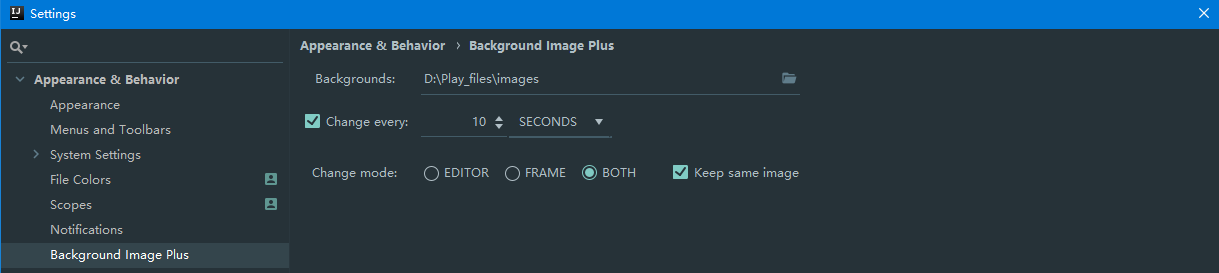
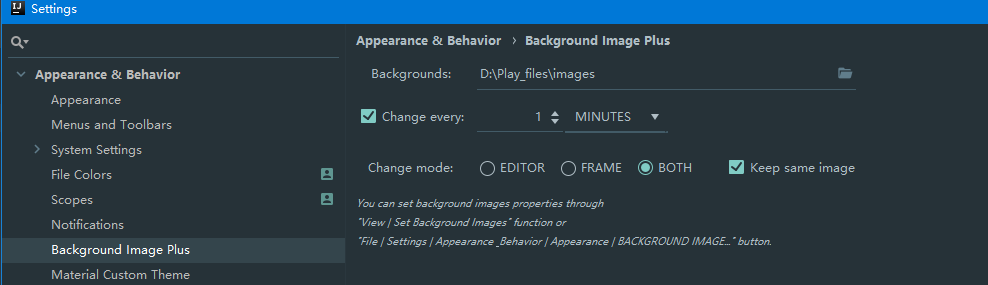
change the random mode and support reshuffle

diff --git a/src/com/notime/intellijPlugin/backgroundImagePlus/ImagesHandlerSingleton.java b/src/com/notime/intellijPlugin/backgroundImagePlus/ImagesHandlerSingleton.java
@@ -1,0 +1,77 @@
+package com.notime.intellijPlugin.backgroundImagePlus;
+
+import org.apache.commons.collections.CollectionUtils;
+
+import javax.activation.MimetypesFileTypeMap;
+import java.io.File;
+import java.util.ArrayList;
+import java.util.Collections;
+import java.util.List;
+
+/**
+ * Author: He Lili
+ * Date:   2018/10/22
+ */
+public enum ImagesHandlerSingleton {
+    
+    /**
+     * 实例
+     */
+    instance;
+    
+    private MimetypesFileTypeMap typeMap = new MimetypesFileTypeMap();
+    
+    private List<String> randomImageList = null;
+    
+    private String lastFolder = null;
+    
+    public String getRandomImage(String folder) {
+        // 文件夹改动或者完成了一次循环
+        if (!folder.equals(lastFolder) || CollectionUtils.isEmpty(randomImageList)) {
+            randomImageList = this.getRandomImageList(folder);
+        }
+        lastFolder = folder;
+        while (CollectionUtils.isNotEmpty(randomImageList) && !isImage(new File(randomImageList.get(0)))) {
+            randomImageList.remove(0);
+        }
+        return CollectionUtils.isEmpty(randomImageList) ? null : randomImageList.remove(0);
+    }
+    
+    public void resetRandomImageList() {
+        randomImageList = lastFolder == null ? null : this.getRandomImageList(lastFolder);
+    }
+    
+    private List<String> getRandomImageList(String folder) {
+        if (folder.isEmpty()) {
+            return null;
+        }
+        List<String> images = new ArrayList<>();
+        collectImages(images, folder);
+        Collections.shuffle(images);
+        return images;
+    }
+    
+    private void collectImages(List<String> images, String folder) {
+        File root = new File(folder);
+        if (root.exists()) {
+            File[] list = root.listFiles();
+            if (list != null) {
+                for (File f : list) {
+                    if (f.isDirectory()) {
+                        collectImages(images, f.getAbsolutePath());
+                    } else {
+                        if (isImage(f)) {
+                            images.add(f.getAbsolutePath());
+                        }
+                    }
+                }
+            }
+        }
+    }
+    
+    private boolean isImage(File file) {
+        String[] parts = typeMap.getContentType(file).split("/");
+        return parts.length != 0 && "image".equals(parts[0]);
+    }
+    
+}

diff --git a/src/com/notime/intellijPlugin/backgroundImagePlus/RandomBackgroundTask.java b/src/com/notime/intellijPlugin/backgroundImagePlus/RandomBackgroundTask.java
@@ -24,9 +24,6 @@ public class RandomBackgroundTask implements Runnable {
         String folder = prop.getValue(Settings.FOLDER);
         String[] radioButton = prop.getValue(Settings.RADIO_BUTTON).split(",");
         boolean keepSameImage = prop.getBoolean(Settings.KEEP_SAME_IMAGE);
-        if (keepSameImage && radioButton.length == 2) {
-        
-        }
         String image = null;
         for (int i = 0; i < radioButton.length; i++) {
             String type = radioButton[i];
@@ -39,9 +36,8 @@ public class RandomBackgroundTask implements Runnable {
                 NotificationCenter.notice("Image folder not set");
                 return;
             }
-            String lastImage = prop.getValue(type);
-            if (!keepSameImage || i <= 0) {
-                image = imagesHandler.getRandomImage(folder, lastImage);
+            if (i == 0 || !keepSameImage) {
+                image = ImagesHandlerSingleton.instance.getRandomImage(folder);
             }
             if (image == null) {
                 NotificationCenter.notice("No image found");
@@ -50,6 +46,7 @@ public class RandomBackgroundTask implements Runnable {
             if (image.contains(",")) {
                 NotificationCenter.notice("Intellij wont load images with ',' character\n" + image);
             }
+            String lastImage = prop.getValue(type);
             if (lastImage != null && lastImage.contains(",")) {
                 prop.setValue(type, image + lastImage.substring(lastImage.indexOf(",")));
             } else {

diff --git a/src/com/notime/intellijPlugin/backgroundImagePlus/action/RandomOrderReset.java b/src/com/notime/intellijPlugin/backgroundImagePlus/action/RandomOrderReset.java
@@ -4,25 +4,15 @@ import com.intellij.ide.util.PropertiesComponent;
 import com.intellij.openapi.actionSystem.AnAction;
 import com.intellij.openapi.actionSystem.AnActionEvent;
 import com.notime.intellijPlugin.backgroundImagePlus.BackgroundService;
+import com.notime.intellijPlugin.backgroundImagePlus.ImagesHandlerSingleton;
 import com.notime.intellijPlugin.backgroundImagePlus.RandomBackgroundTask;
 import com.notime.intellijPlugin.backgroundImagePlus.ui.Settings;
 
-/**
- * Author: Lachlan Krautz
- * Date:   21/07/16
- */
-public class RandomBackground extends AnAction {
-    
-    public RandomBackground() {
-        super("Random Background Image");
-        PropertiesComponent prop = PropertiesComponent.getInstance();
-        if (prop.getBoolean(Settings.AUTO_CHANGE, false)) {
-            BackgroundService.start();
-        }
-    }
+public class RandomOrderReset extends AnAction {
     
     @Override
-    public void actionPerformed(AnActionEvent evt) {
+    public void actionPerformed(AnActionEvent e) {
+        ImagesHandlerSingleton.instance.resetRandomImageList();
         PropertiesComponent prop = PropertiesComponent.getInstance();
         if (prop.getBoolean(Settings.AUTO_CHANGE, false)) {
             BackgroundService.restart();
@@ -30,5 +20,4 @@ public class RandomBackground extends AnAction {
             new RandomBackgroundTask().run();
         }
     }
-    
 }

diff --git a/src/com/notime/intellijPlugin/backgroundImagePlus/action/ClearBackground.java b/src/com/notime/intellijPlugin/backgroundImagePlus/action/ClearBackground.java
@@ -13,6 +13,7 @@ import com.intellij.openapi.wm.impl.IdeBackgroundUtil;
  */
 public class ClearBackground extends AnAction {
 
+    @Override
     public void actionPerformed(AnActionEvent e) {
         PropertiesComponent prop = PropertiesComponent.getInstance();
         prop.setValue(IdeBackgroundUtil.EDITOR_PROP, null);

diff --git a/src/com/notime/intellijPlugin/backgroundImagePlus/ImagesHandler.java b/src/com/notime/intellijPlugin/backgroundImagePlus/ImagesHandler.java
@@ -67,7 +67,7 @@ class ImagesHandler {
     
     private boolean isImage(File file) {
         String[] parts = typeMap.getContentType(file).split("/");
-        return parts.length != 0 && parts[0].equals("image");
+        return parts.length != 0 && "image".equals(parts[0]);
     }
     
 }

diff --git a/README.md b/README.md
@@ -17,6 +17,7 @@ Settings -> Appearance & Behaviour -> Background Image Plus
 View: 
 - Set Background Image (set image properties : opacity/fill/anchor/flip ...)
 - Random Background Image
+- Random Order Reset (regenerate a new round of image order based on the last file path)
 - Clear Background Image (cancels "change every" interval)
 
 ![Alt text](https://github.com/HNUHell/backgroundImagePlus/blob/master/resources/screenshots/actions.png?raw=true "Title")
@@ -26,4 +27,5 @@ View:
 - Set backgrounds folder
 - Optionally set "change every" interval
 - Optionally bind "Random Background Image" action to a hotkey
+- Optionally bind "Random Order Reset" action to a hotkey
 - Cycle background images while procrastinating
